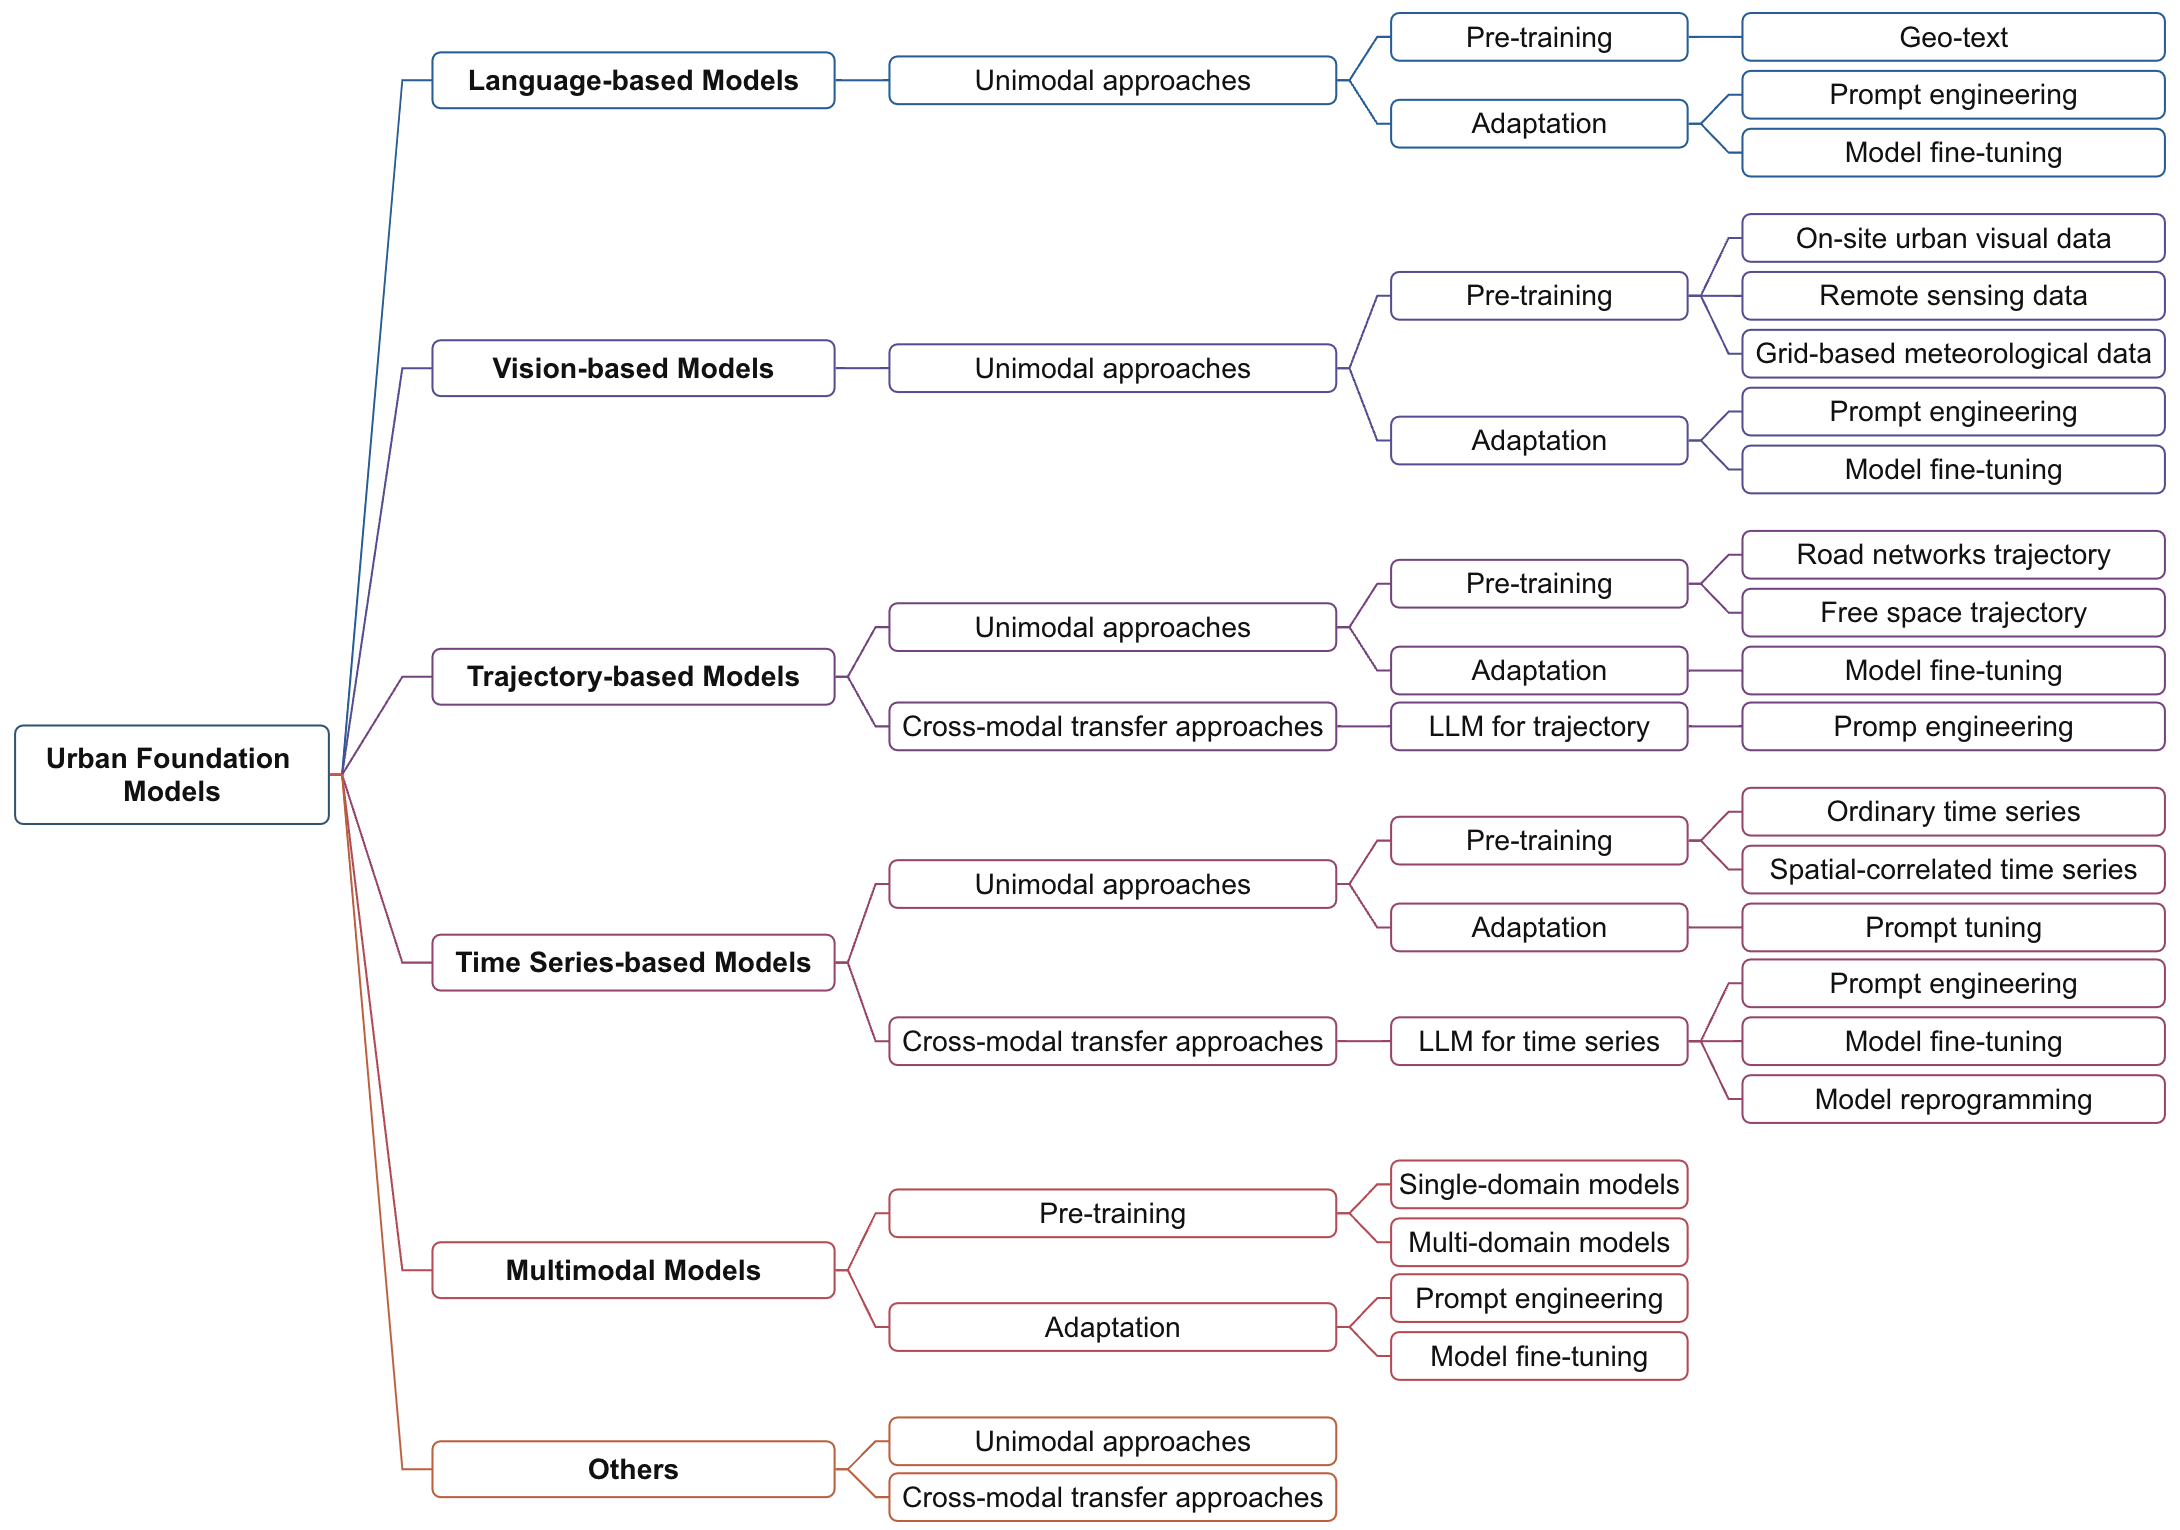
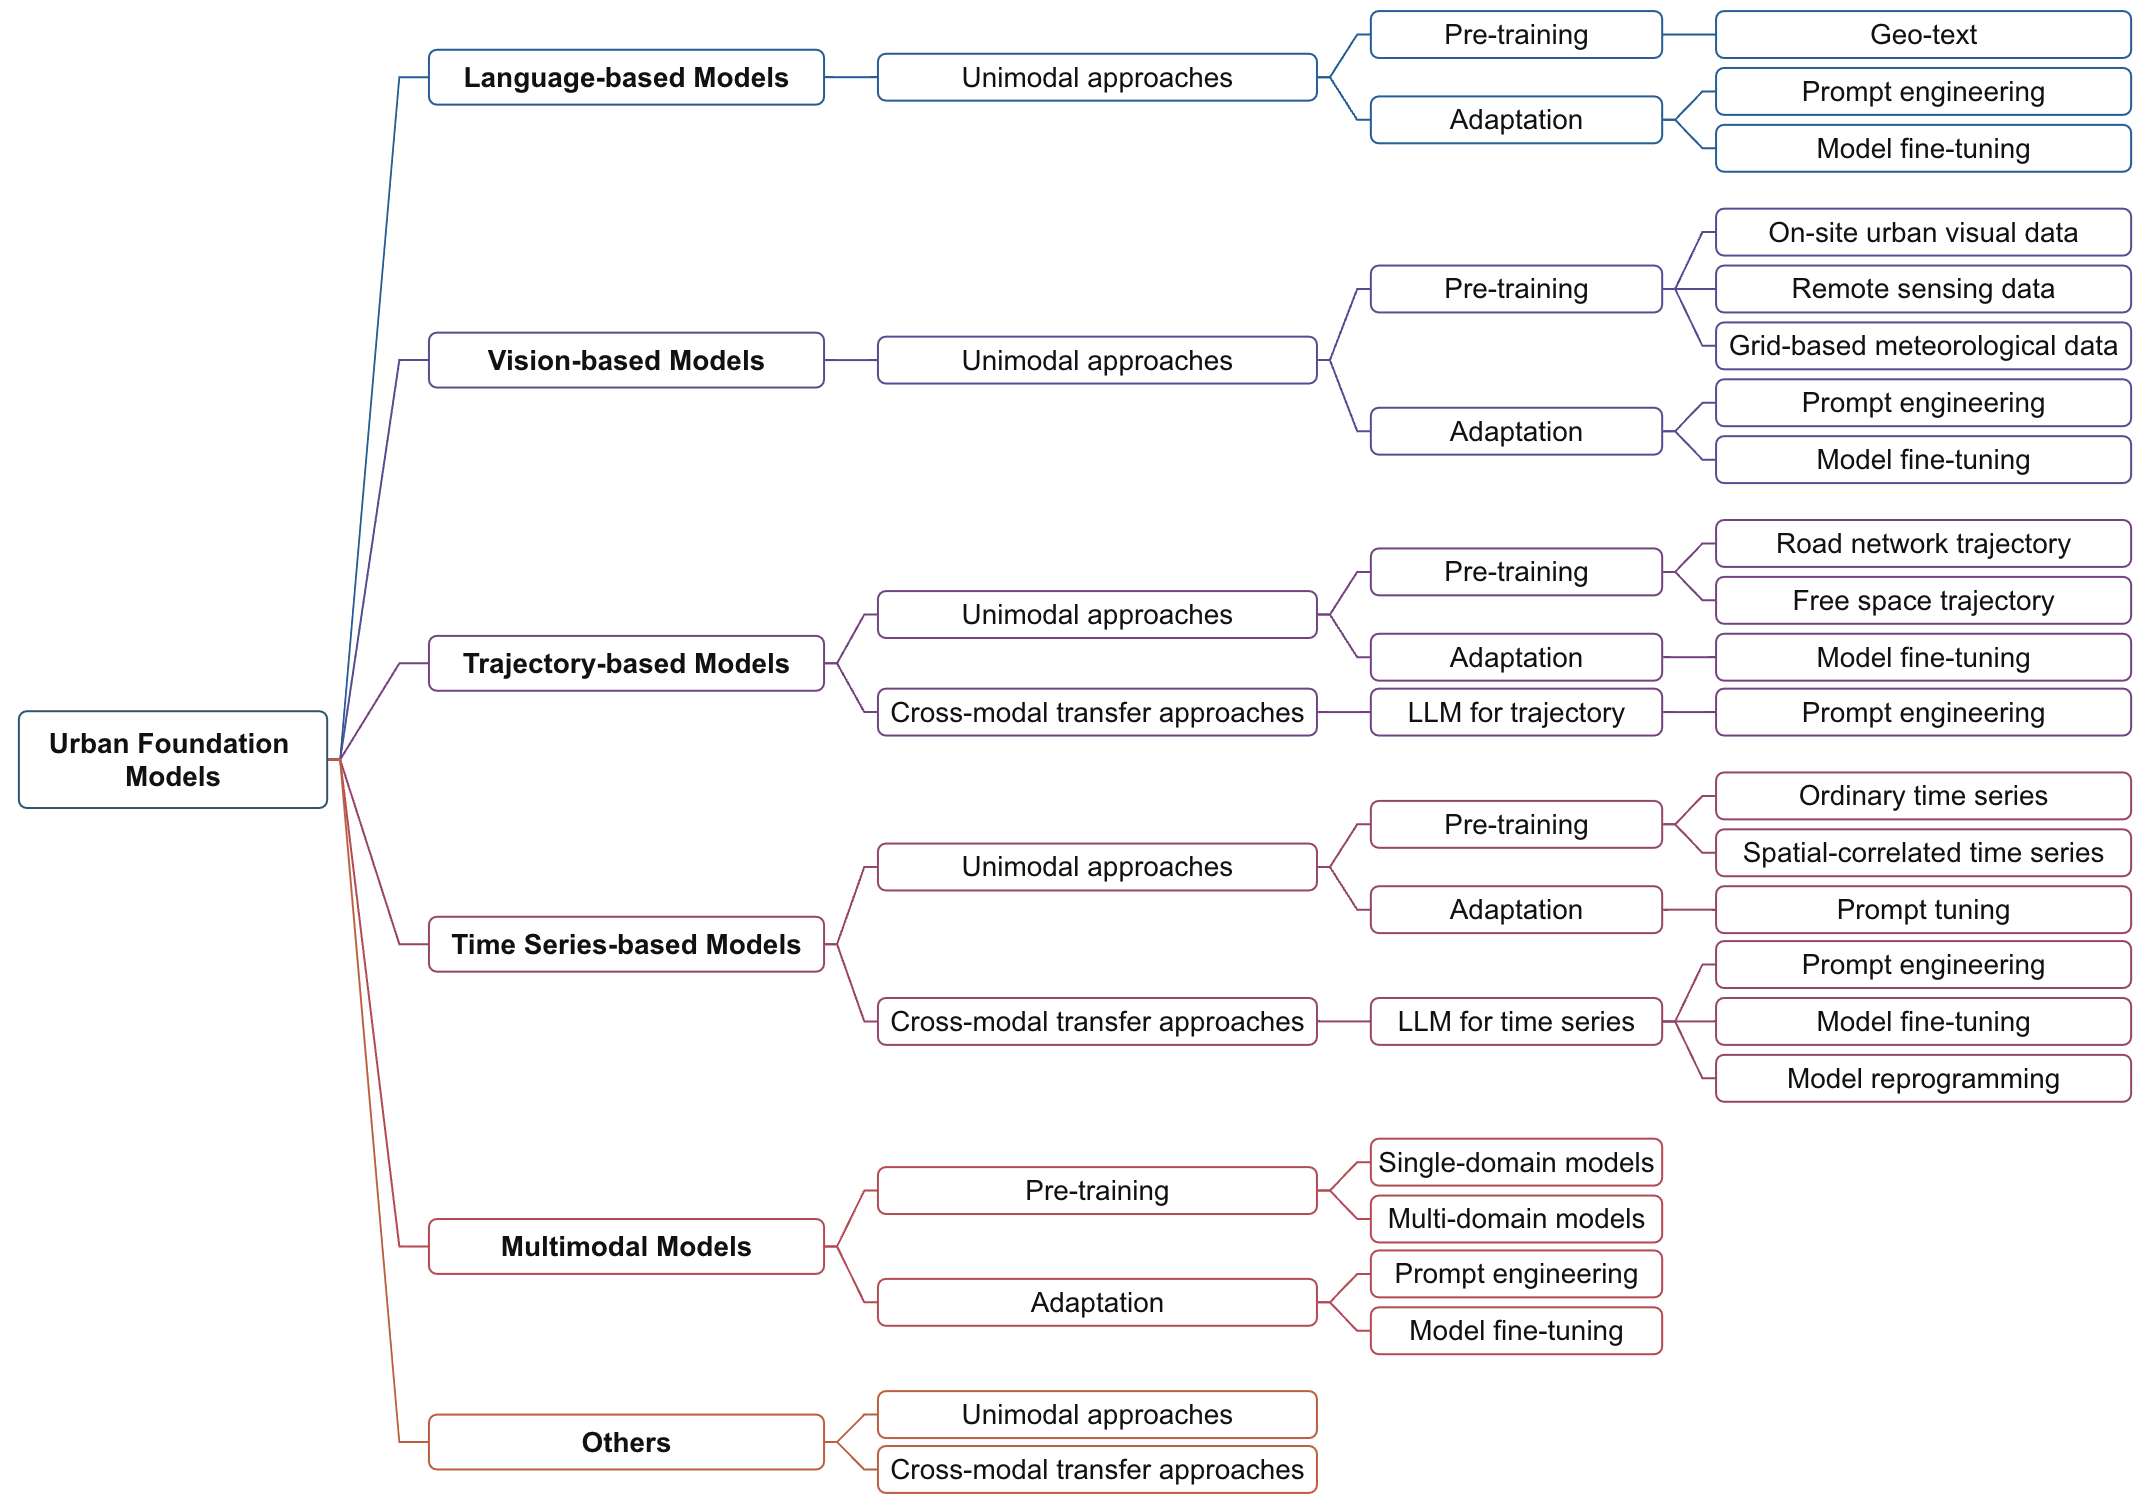
add taxonomy

Changed region(s): [[0.0, 0.0, 0.9944, 0.9973]]

diff --git a/README.md b/README.md
@@ -22,6 +22,9 @@ An Awesome Collection of Urban Foundation Models (UFMs).
   - [7-Citation](#7-citation)
   - [8-Contributing](#8-contributing)
 
+
+![A data-centric taxonomy for existing UFMs-related works based on the types of urban data modalities.](./figs/taxonomy.png)
+
 ## 1-Language-based Models
 
 ### Unimodal Approaches
